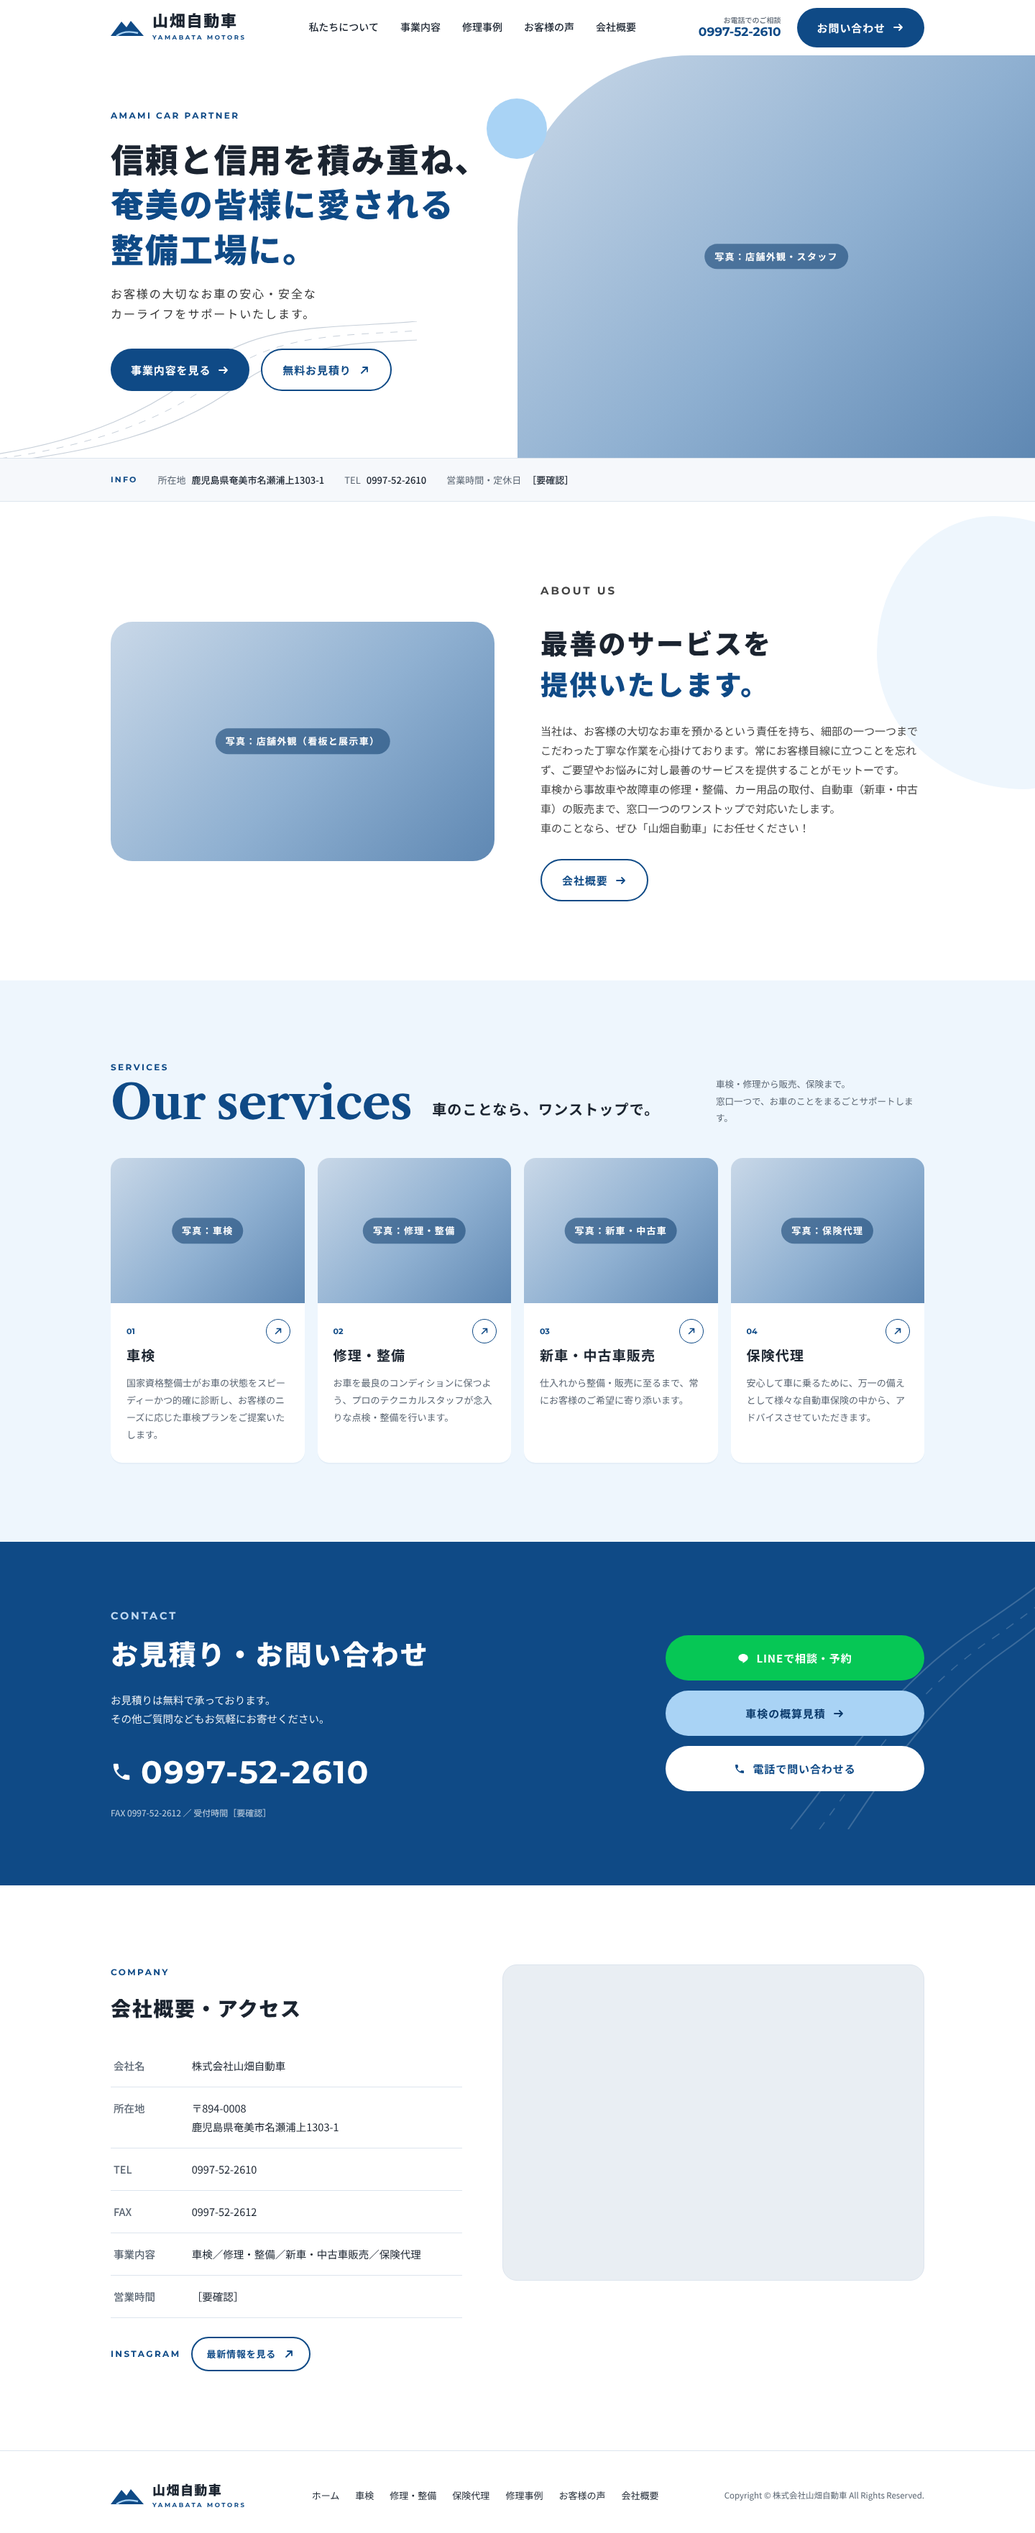
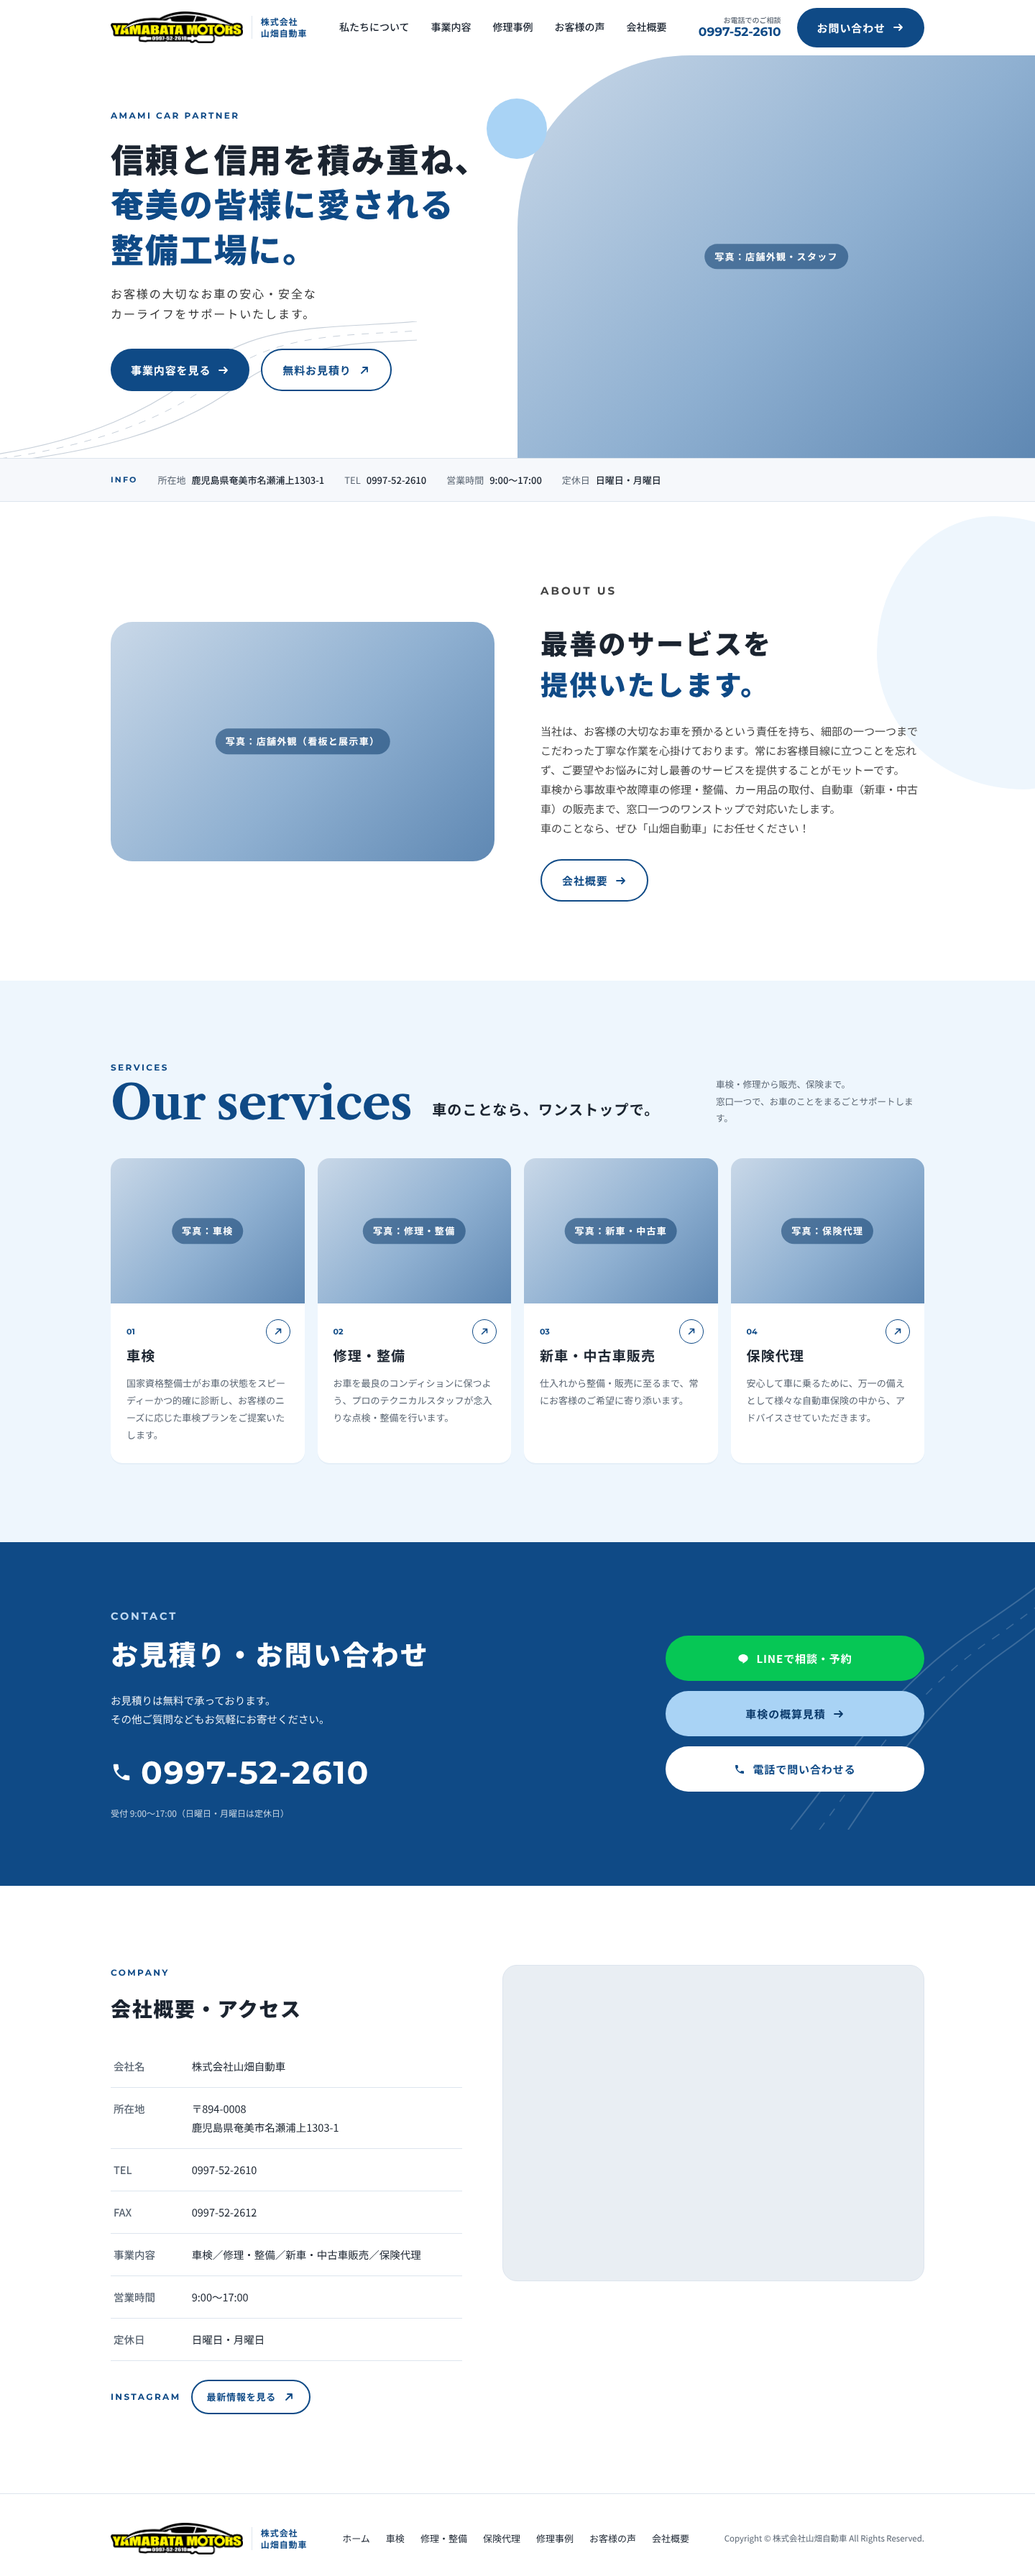
試作に正式ロゴとファビコンを反映
Claude-Session: https://claude.ai/code/session_01SC2PEFaDkreAoAxa1eWZ8N

diff --git a/prototype/index.html b/prototype/index.html
@@ -6,6 +6,8 @@
 <title>株式会社山畑自動車｜奄美市名瀬の車検・整備・修理</title>
 <meta name="description" content="奄美市名瀬浦上の整備工場、株式会社山畑自動車。車検・修理・整備・新車中古車販売・保険代理までワンストップで対応します。">
 <meta name="robots" content="noindex">
+<link rel="icon" href="img/favicon.png">
+<link rel="apple-touch-icon" href="img/apple-touch-icon.png">
 <link rel="preconnect" href="https://fonts.googleapis.com">
 <link rel="preconnect" href="https://fonts.gstatic.com" crossorigin>
 <link href="https://fonts.googleapis.com/css2?family=Noto+Sans+JP:wght@400;500;700;900&family=Libre+Caslon+Text:wght@700&family=Montserrat:wght@600;700&display=swap" rel="stylesheet">
@@ -38,8 +40,8 @@ a{color:inherit;text-decoration:none}
 header{position:sticky;top:0;z-index:20;background:rgba(255,255,255,.95);backdrop-filter:blur(8px);border-bottom:1px solid transparent}
 .hd{display:flex;align-items:center;justify-content:space-between;height:76px}
 .logo{display:flex;align-items:center;gap:12px}
-.logo-mark{width:46px;height:28px}
-.logo-ja{font-weight:900;font-size:22px;letter-spacing:.08em;line-height:1.1}
+.logo-img{height:44px;width:auto}
+.logo-ja{font-weight:700;font-size:12px;letter-spacing:.08em;line-height:1.35;color:var(--navy);border-left:1px solid var(--line);padding-left:12px}
 .logo-en{font-family:Montserrat,sans-serif;font-size:8.5px;letter-spacing:.3em;font-weight:700;display:block;color:var(--navy)}
 nav ul{display:flex;gap:30px;list-style:none;font-size:14px;font-weight:500}
 nav a:hover{color:var(--navy)}
@@ -140,7 +142,8 @@ footer ul{display:flex;gap:22px;list-style:none;font-size:13px;flex-wrap:wrap}
   .hd{height:64px}
   .hd-tel{display:none}
   .hd-right .btn{display:none}
-  .logo-ja{font-size:19px}
+  .logo-img{height:36px}
+  .logo-ja{font-size:10.5px;padding-left:10px}
   .hero-grid{grid-template-columns:1fr;min-height:0}
   .hero-img{position:relative;width:auto;height:300px;margin:0 -24px;order:-1}
   .hero-img .ph{border-top-left-radius:120px}
@@ -181,9 +184,8 @@ footer ul{display:flex;gap:22px;list-style:none;font-size:13px;flex-wrap:wrap}
 <header>
   <div class="wrap hd">
     <a href="#" class="logo" aria-label="株式会社山畑自動車 トップ">
-      <!-- 仮ロゴ（山と道のマーク）。正式ロゴに差し替え -->
-      <svg class="logo-mark" viewBox="0 0 46 28" aria-hidden="true"><path d="M0 26L15 6l7 8 6-9 18 21z" fill="#0f4a86"/><path d="M8 26c8-6 18-7 30-4" stroke="#a9d3f5" stroke-width="2.4" fill="none"/></svg>
-      <span><span class="logo-ja">山畑自動車</span><span class="logo-en">YAMABATA MOTORS</span></span>
+      <img class="logo-img" src="img/logo.png" width="760" height="183" alt="YAMABATA MOTORS">
+      <span class="logo-ja">株式会社<br>山畑自動車</span>
     </a>
     <nav aria-label="メインメニュー">
       <ul>
@@ -318,8 +320,8 @@ footer ul{display:flex;gap:22px;list-style:none;font-size:13px;flex-wrap:wrap}
 <footer>
   <div class="wrap ft">
     <a href="#" class="logo">
-      <svg class="logo-mark" viewBox="0 0 46 28" aria-hidden="true"><path d="M0 26L15 6l7 8 6-9 18 21z" fill="#0f4a86"/><path d="M8 26c8-6 18-7 30-4" stroke="#a9d3f5" stroke-width="2.4" fill="none"/></svg>
-      <span><span class="logo-ja" style="font-size:18px">山畑自動車</span><span class="logo-en">YAMABATA MOTORS</span></span>
+      <img class="logo-img" src="img/logo.png" width="760" height="183" alt="YAMABATA MOTORS">
+      <span class="logo-ja">株式会社<br>山畑自動車</span>
     </a>
     <ul>
       <li><a href="#">ホーム</a></li><li><a href="#">車検</a></li><li><a href="#">修理・整備</a></li><li><a href="#">保険代理</a></li><li><a href="#">修理事例</a></li><li><a href="#">お客様の声</a></li><li><a href="#company">会社概要</a></li>

diff --git a/docs/todo.md b/docs/todo.md
@@ -7,7 +7,8 @@
 - [x] 現行サイトのトップページ内容を記録（[current-site.md](current-site.md)、オーナーのスクリーンショットから）
 - [x] トップページの試作（`prototype/index.html`、静的HTML）：参考デザイン（紺・水色、曲線、カード型サービス）に現行サイトの文章・店舗情報を当てはめ。写真・ロゴは仮、LINE・Instagram・見積フォームのリンクは未設定。PC（1440px）・スマホ（390px）で表示確認、横はみ出しなし。地図はクラウドから表示不可のため未確認
 - [x] 試作へのオーナーのフィードバック：デザインは了承（2026-11-13）。営業時間・定休日、LINE・InstagramのURLを反映、メールお問い合わせは廃止
-- [ ] 写真・ロゴの元データを受け取り、試作の仮画像を差し替える
+- [x] ロゴ（`assets/original/logo/`）を受け取り、試作のヘッダー・フッター・ファビコンに反映（2026-11-13）
+- [ ] 写真を受け取り、試作の仮画像を差し替える（GitHubの画面からは25MB超のファイルでアップロード失敗。縮小して再アップロード待ち）
 - [ ] ページ構成・掲載内容を決める（オーナー）
 - [x] 店舗情報（住所・電話番号・営業時間・定休日）：2026-11-13反映済み
 - [ ] デザインの方向性を決める
